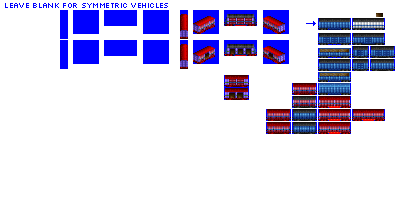
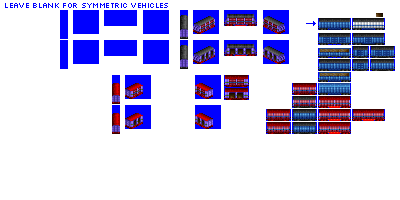
Change: sprites complete for gen 4C box car and gen 4C curtain side box car

diff --git a/src/vehicles/box_cars.py b/src/vehicles/box_cars.py
@@ -106,7 +106,7 @@ def main():
                             base_numeric_id=1980,
                             gen=4,
                             subtype='C',
-                            sprites_complete=False)
+                            sprites_complete=True)
 
     consist.add_unit(type=FreightCar,
                      suppress_roof_sprite=True, # non-standard roof for this wagon

diff --git a/src/vehicles/curtain_side_box_cars.py b/src/vehicles/curtain_side_box_cars.py
@@ -9,7 +9,7 @@ def main():
                             base_numeric_id=540,
                             gen=4,
                             subtype='B',
-                            sprites_complete=False)
+                            sprites_complete=True)
 
     consist.add_unit(type=FreightCar,
                      chassis='2_axle_filled_24px')
